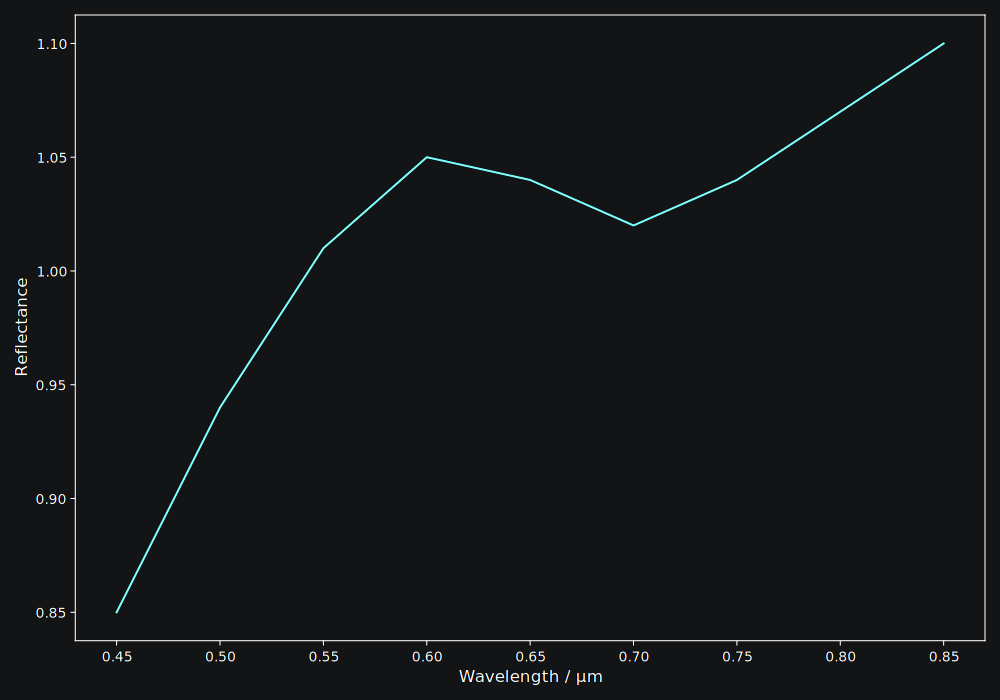
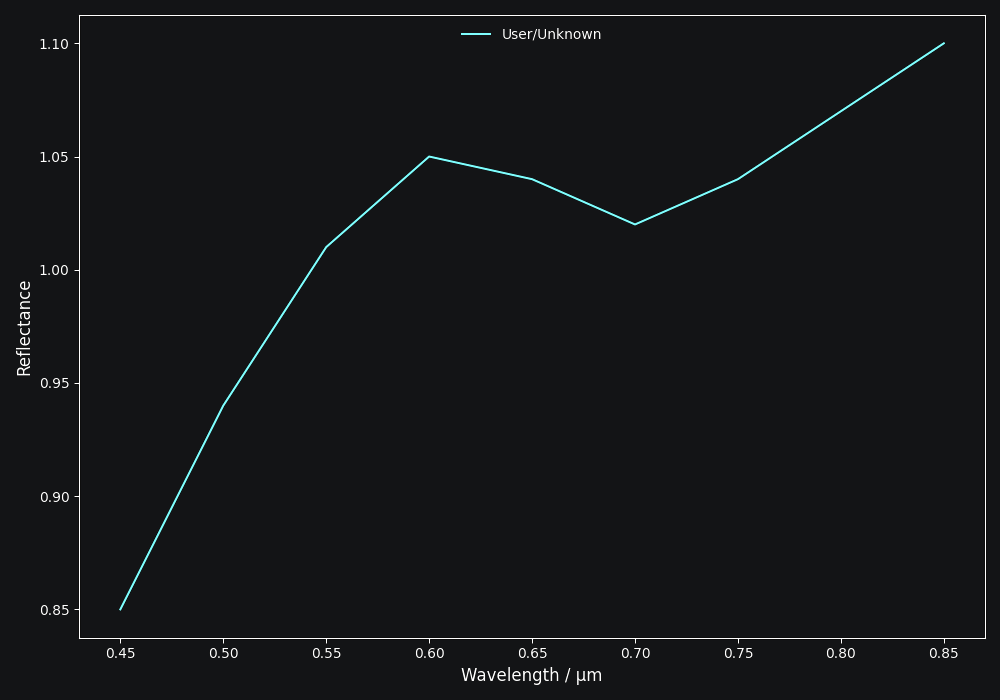
Update plots in documentation

diff --git a/docs/core.rst b/docs/core.rst
@@ -42,16 +42,18 @@ Let's have a look at this spectrum.
  :class: only-dark
  :width: 600
 
+The plot legend gives the source and the target name for each spectrum, as explained below.
+As we have not yet set a target, it is shown as "Unknown".
+
 Besides the mandatory ``wave`` and ``refl`` arguments, there are optional
-arguments with a pre-defined meaning to ``classy``. You can specify these when
-creating the ``Spectrum`` or at a later point via the dot-notation (shown
-below). For example, the ``refl_err`` attribute contains the reflectance
-errors.
+arguments with a pre-defined meaning to ``classy``. For example, the
+``refl_err`` attribute contains the reflectance errors.
 
 
 .. code-block:: python
 
-   >>> spec.refl_err = [0.05, 0.04, 0.03, 0.05, 0.06, 0.03, 0.03, 0.04, 0.07]
+   >>> refl_err = [0.05, 0.04, 0.03, 0.05, 0.06, 0.03, 0.03, 0.04, 0.07]
+   >>> spec = classy.Spectrum(wave=wave, refl=refl, refl_err=refl_err)
    >>> spec.plot()
 
 .. image:: gfx/core/spectrum_with_error.png
@@ -89,7 +91,9 @@ arguments with a pre-defined meaning for ``classy`` below.
 | ``source``          | ``str``             | Short string representing the source of the spectrum. Default is 'User'.                                                                                |
 +---------------------+---------------------+---------------------------------------------------------------------------------------------------------------------------------------------------------+
 
-All attributes can be accessed and edited via the dot notation.
+You can specify these when creating the ``Spectrum`` or at a later point via
+the dot-notation. All attributes can be accessed and edited via the
+dot-notation.
 
 .. code-block:: python
 
@@ -166,7 +170,16 @@ For example, you can query all databases for any spectra of an asteroid by provi
   Found 11 spectra of (221) Eos
   >>> spectra.plot()
 
-.. TODO: INSERT PLOT
+.. image:: gfx/core/spectra_eos.png
+ :align: center
+ :class: only-light
+ :width: 600
+
+.. image:: gfx/core/spectra_eos_dark.png
+ :align: center
+ :class: only-dark
+ :width: 600
+
 
 The ``Spectra`` class is essentially a list of ``Spectrum`` instances. You can
 the usual ``python`` indexing and iteration operations to access the individual
@@ -235,32 +248,39 @@ by simply adding them.
 
 .. code-block:: python
 
-    >>> my_lutetia = classy.Spectrum(wave=[0.3, 0.4, 0.55, 0.7], refl=[0.9, 0.8, 1, 1.3])
+    >>> my_lutetia = classy.Spectrum(wave=[0.3, 0.4, 0.55, 0.7], refl=[0.9, 0.94, 1, 1.1], target="Lutetia")
     >>> lutetia_literature = classy.Spectra(21, source='Gaia')
     >>> lutetia_spectra = my_lutetia + lutetia_literature  # add my_lutetia to the literature results
     >>> lutetia_spectra.plot()
+
+.. image:: gfx/core/spectra_lutetia.png
+ :align: center
+ :class: only-light
+ :width: 600
+
+.. image:: gfx/core/spectra_lutetia_dark.png
+ :align: center
+ :class: only-dark
+ :width: 600
+
+.. Given that they are so numerous, Gaia spectra have a unique display style in
+.. ``classy``, color-coding the ``flag`` value of the different wavelength bins
+.. (``0`` = black, ``1`` = orange, ``2`` = red).
 
 The benefit of combining them in a single ``Spectra`` instance is that most operations that can be done
 on a ``Spectrum`` (e.g. preprocessing, feature detection, see later chapters) can be done on a large number of ``Spectra`` by simply calling the
 corresponding function of the ``Spectra`` class. This saves efforts in typing and is useful when :ref:`plotting
 and exporting <export>` analysis results.
 
-
 Plotting ``Spectra``
 --------------------
 
-You can use the ``plot`` method of the ``Spectrum`` and ``Spectra`` classes to visualise the spectra.
-
-.. code-block::
-
-  >>> import classy
-  >>> spectra = classy.Spectra(43)
-  >>> spectra.plot()
-
-The method returns the ``matplotlib`` ``Figure`` and ``axis`` instances. If you
-want to adapt the figure before opening the plot, you can set ``show=False``.
-This can be useful e.g. if you would like to add :ref:`template spectra for different classes <taxonomies>`
-for comparison.
+This chapter already demonstrated taht you can use the ``plot`` method of the
+``Spectrum`` and ``Spectra`` classes to visualise the spectra. The method
+returns the ``matplotlib`` ``Figure`` and ``axis`` instances. If you want to
+adapt the figure before opening the plot, you can set ``show=False``. This can
+be useful e.g. if you would like to add :ref:`template spectra of taxonomic
+classes <taxonomies>` for comparison.
 
 .. code-block::
 
@@ -268,16 +288,26 @@ for comparison.
   >>> spectra = classy.Spectra(43)
   >>> fig, ax = spectra.plot(show=False)
   >>> templates = classy.taxonomies.mahlke.load_templates()
-  >>> ax.plot(templates['S'].wave, templates['S'].refl, label='Template S')
+  >>> ax.plot(templates['S'].wave, templates['S'].refl, label='Template S', ls=":")
   >>> ax.legend()
   >>> plt.show()
 
-You can further save the figure to file by specifying the output filename with the ``save`` argument.
+.. image:: gfx/core/spectra_with_template.png
+ :align: center
+ :class: only-light
+ :width: 600
+
+.. image:: gfx/core/spectra_with_template_dark.png
+ :align: center
+ :class: only-dark
+ :width: 600
+
+
+You can save the figure to file by specifying the output filename with the ``save`` argument.
 
 .. code-block::
 
-  >>> spectra = classy.Spectra(43)
-  >>> spectra.plot(show=False)
+  >>> spectra.plot(save="43_with_mahlke_s_template.png")
 
 .. _exporting_spectrum:
 

diff --git a/docs/index.rst b/docs/index.rst
@@ -31,7 +31,7 @@ for spectroscopic analysis.\ [#f1]_
       :link: getting_started
       :link-type: ref
 
-      Learn how to setup and run ``classy`` on your machine.
+      Install and use ``classy`` on your machine.
 
 .. highlight:: python
 
@@ -147,15 +147,16 @@ Quick-look plots at any step to verify your analysis.
         Coming soon.
 
 
-.. image:: gfx/ceres_classification.png
+.. image:: gfx/index/spectra_classified.png
  :align: center
  :class: only-light
  :width: 1000
 
-.. image:: gfx/ceres_classification_dark.png
+.. image:: gfx/index/spectra_classified_dark.png
  :align: center
  :class: only-dark
  :width: 1000
+
 .. And more →
 
 .. - Automatic retrieval of target properties such as albedo, family, and computation of phase angle at epoch of observation.
@@ -252,6 +253,7 @@ Quick-look plots at any step to verify your analysis.
 ..       Simple and intuitive syntax.
 
 
+|br|
 
 .. rubric:: Footnotes
    :caption:
